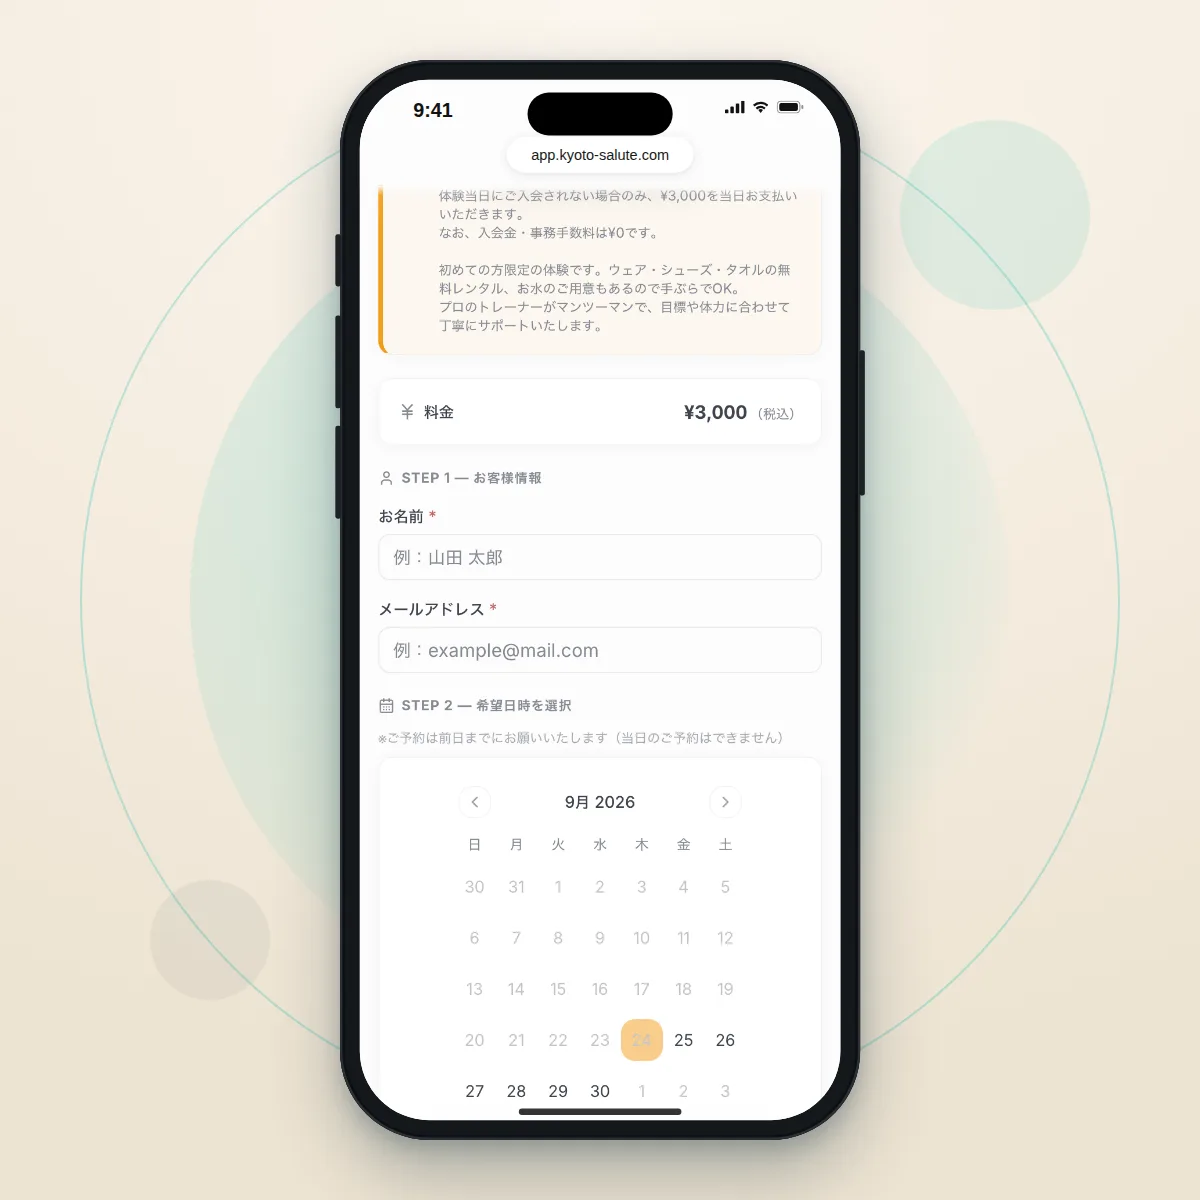
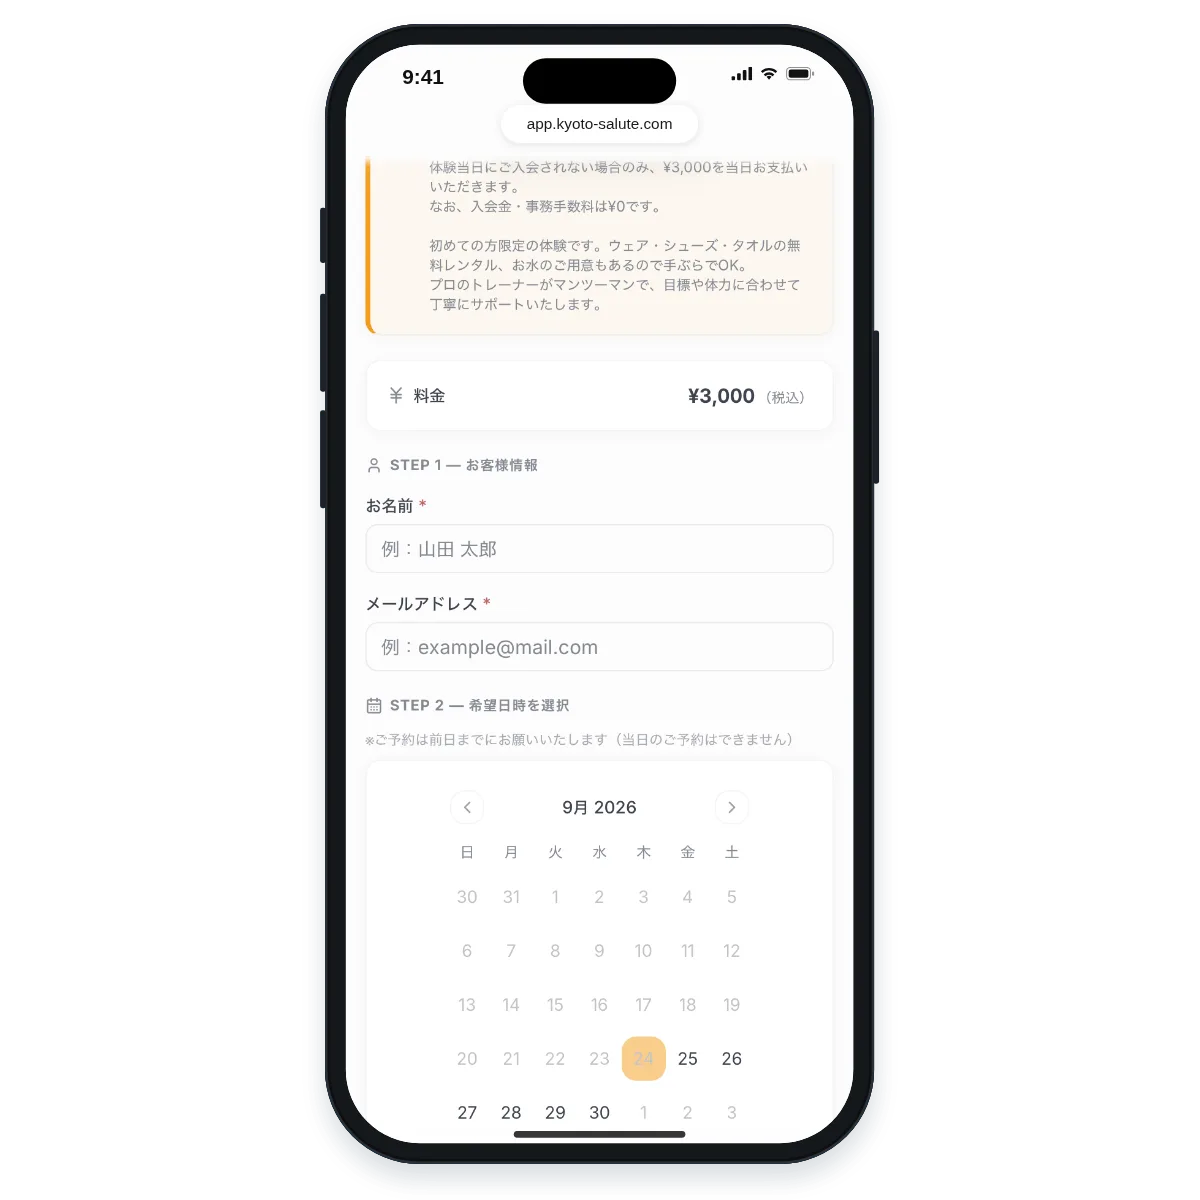
feat: 手順01の画像の背景を外してスマホだけにする (#75)
* feat: 月15回プランを削除し、最低単価の訴求を¥4,500に修正

ホームページの料金セクションから月15回プラン（¥60,000/月・1回¥4,000）を
削除しました。最安の1回あたり料金が月8回プランの¥4,500になるため、
月15回プランの単価を根拠にしていたサイト全体の「1回¥4,000〜」という訴求を
すべて¥4,500〜に修正しています。提供していない価格を表示したままにすると
景品表示法上の有利誤認にあたるため、表示だけでなく構造化データ・特商法ページ
まで揃えました。

- 料金プラン: 5言語すべてから月15回プランを削除し、「4つのプラン」等の
  プラン数の記載を3つに修正
- PricingSection: 4カラムのグリッドを3カラムに変更（3枚で余白が偏るため）
- 最低単価の訴求 ¥4,000〜 → ¥4,500〜（ヒーロー・特徴・数字・メタディスクリプ
  ション・エリアページ・ブログ記事のCTA）
- index.html: OfferCatalogから月15回プランを削除、priceRangeを
  ¥20,000〜¥36,000/月に、FAQPageのプラン一覧と単価レンジを修正
- 特商法ページ: 販売価格の一覧から月15回プランの行を削除

「個人経営・小規模ジムの相場は1回¥4,000〜¥8,000」という記述は当ジムの
価格ではなく市場相場の説明のため、そのままにしています。

あわせて、プラン表から導かれる訴求（最安単価・プラン数・構造化データ）が
ずれたらテストで落ちるよう src/test/pricing-consistency.test.ts を追加しました。

Claude-Session: https://claude.ai/code/session_012tG2aQBDhvYXvJWbqFuzwR

* feat: 月額プランの料金を改定（新規入会者のみ、既存会員は据え置き）

- 月4回プラン ¥20,000 → ¥24,000（1回あたり ¥6,000）
- 月6回プラン ¥28,500 → ¥33,000（1回あたり ¥5,500）
- 月8回プラン ¥36,000 → ¥40,000（1回あたり ¥5,000）

最安の1回あたり料金が¥4,500から¥5,000に上がるため、サイト全体の
「1回¥4,500〜」の訴求（ヒーロー・特徴・数字・メタ・エリアページ・
ブログ）もすべて¥5,000〜に修正しました。index.html の OfferCatalog・
priceRange・FAQPage、特商法ページの販売価格も新料金に揃えています。

新料金は新規ご入会のお客様のみに適用し、既存会員は改定前の料金のまま
であることを、料金プランの直下（5言語）と特商法ページに明記しました。

市場相場の説明（小規模ジムの相場など）は当ジムの価格ではないため
変更していません。特商法ページの価格がプラン表とずれたら落ちるテストを
追加しました。

Claude-Session: https://claude.ai/code/session_012tG2aQBDhvYXvJWbqFuzwR

* fix: 値上げで不正確になった比較表現とブログ生成スクリプトの料金を修正

- ブログ自動生成スクリプト（scripts/generate-blog-post.mjs）の前提情報が
  「1回¥4,000〜」のまま残っていたため¥5,000〜に修正。これから生成する
[…]

diff --git a/src/components/FlowSection.tsx b/src/components/FlowSection.tsx
@@ -32,7 +32,7 @@ const FlowSection = () => {
                     height={1200}
                     loading="lazy"
                     decoding="async"
-                    className="w-full aspect-square object-cover rounded-sm mb-6"
+                    className="w-full aspect-square object-contain mb-6"
                   />
                 )}
                 <p className="font-heading text-primary text-2xl mb-3">{num}</p>
